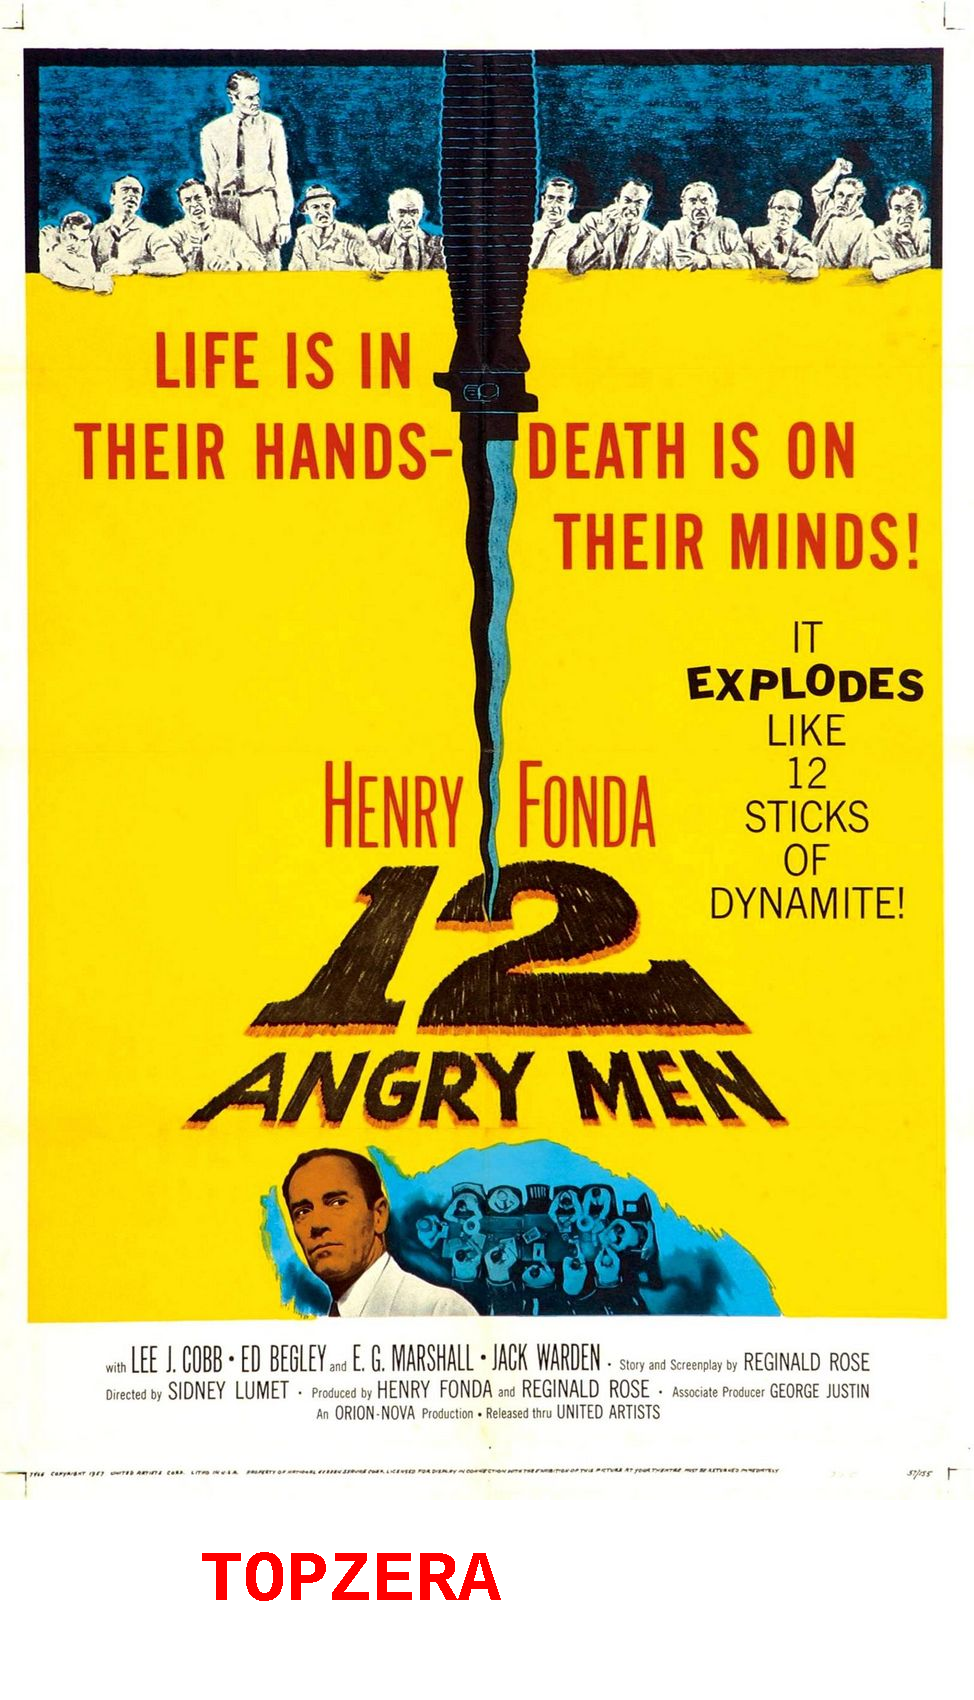
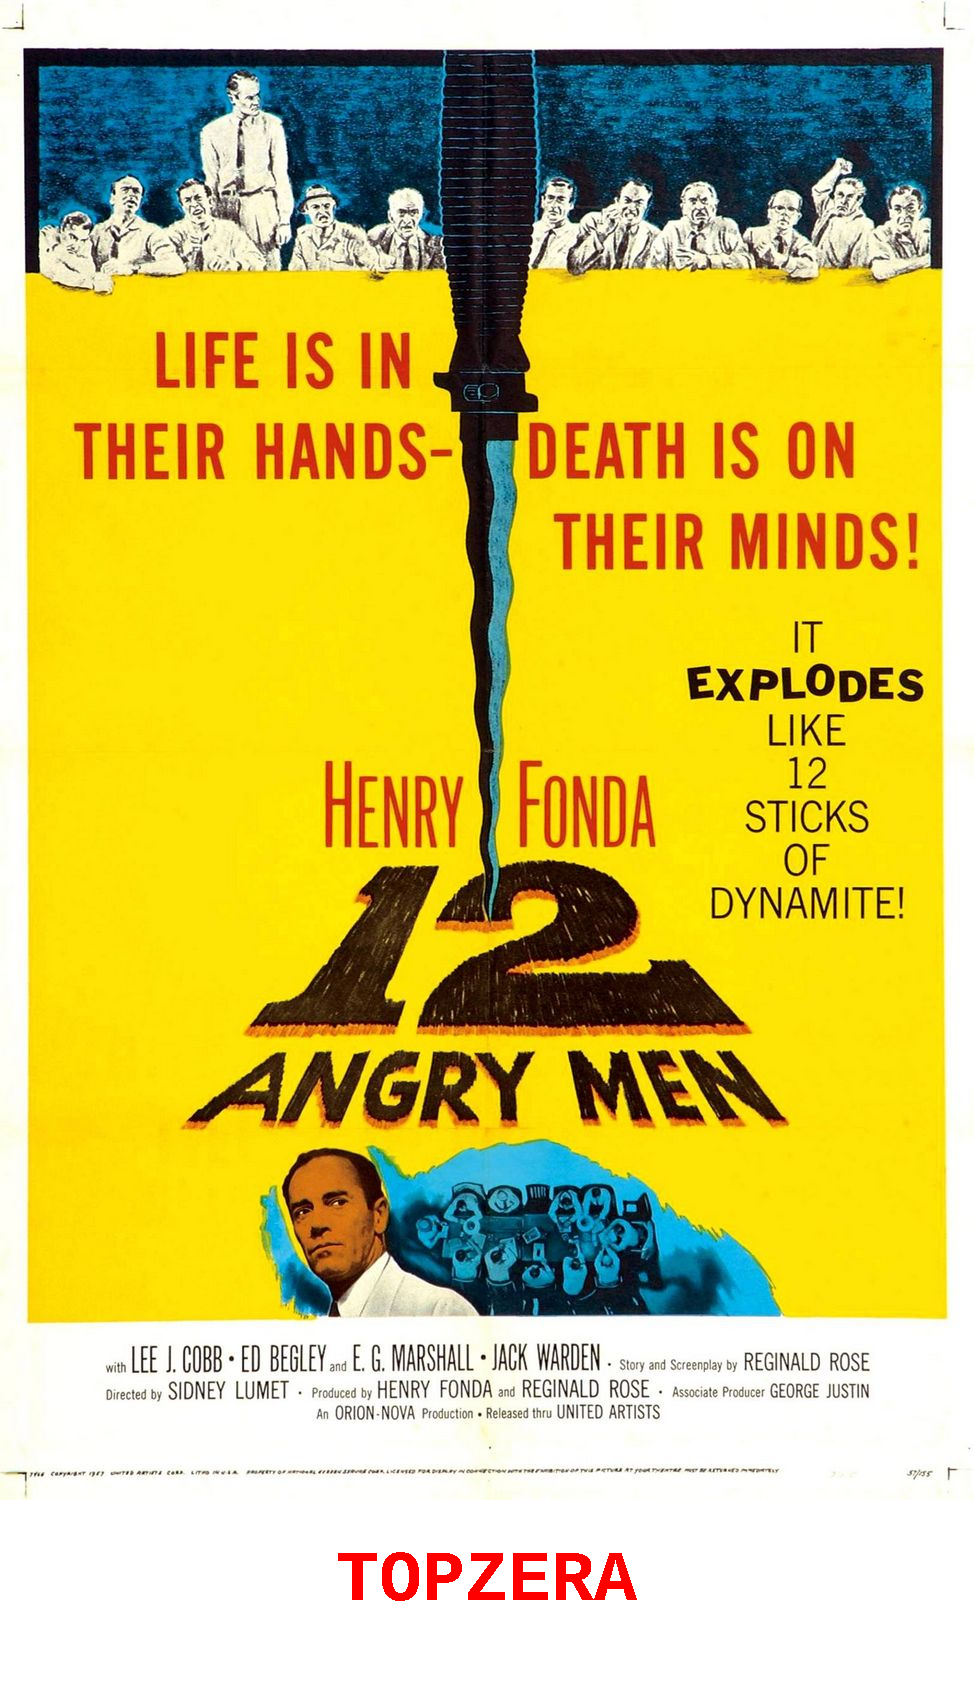
All classes and interfaces needed were implemented

Changed region(s): [[0.2156, 0.9041, 0.6468, 0.9665]]

diff --git a/src/App.java b/src/App.java
@@ -1,16 +1,9 @@
-import java.net.URI;
+
 import java.net.URL;
-import java.net.http.HttpClient;
-import java.net.http.HttpRequest;
-import java.net.http.HttpResponse;
-import java.net.http.HttpResponse.BodyHandlers;
 import java.util.List;
-import java.util.Map;
-import java.lang.Math;
 import java.io.FileInputStream;
 import java.io.InputStream;
 import java.util.Properties;
-import java.util.Scanner;
 
 
 public class App {
@@ -19,69 +12,49 @@ public class App {
 
         
         //Make a HTTP conection and search for the 250 movies
+        
         FileInputStream fis = new FileInputStream("/mnt/c/Users/guial/OneDrive/Documents/Alura-Cursos/Imersao-Java/Alura-Stickers/src/resources/config.properties");
         Properties props = new Properties();
         props.load(fis);
-
+        
         String url = props.getProperty("api");
-        URI address = URI.create(url); //0- Create a URI instance 
-        var client = HttpClient.newHttpClient(); //1- Created the object that will make all process of send requests and retrieve responses
-        var request = HttpRequest.newBuilder(address).GET().build(); //2 - This object make all process  to search the data and build the api
+        ContentExtractor extractorImdb = new ContentExtractorImdb();
+        var http = new ClientHttp();
+        String json = http.searchData(url);
+        
+        List<Content> contents = extractorImdb.contentExtract(json);
 
-        HttpResponse<String> response = client.send(request, BodyHandlers.ofString());
-        //3-bodyhandlers -> class that allow creates differents ways to execute the request
-        //4- response is a variable that returns an anwser of the request in a string format
-        String body = response.body(); //5-The body of my request send
+        var stickerNasa = new StickerGenerater();
+
+        for(int i = 0; i <= 5; i++){
+
+            Content content = contents.get(i);
+
+            InputStream inputStream = new URL(content.getUrlImage()).openStream();
+            String nameFile = content.getTitle() + ".png";
+
+            stickerNasa.create(inputStream, nameFile);
+
+            System.out.println(content.getTitle());
+            System.out.println();
+
+        }
+
+       //5-The body of my request send
 
         //System.out.println(body); 
         
         //Extract only the file that interest (title, post, classification)
         
         
-        var parser = new JsonParser(); //
-        List<Map<String, String>> listOfMovies = parser.parse(body);
+        
         
         //display and manipulate the data
-        String emoji = "\uD83C\uDF1F";
+        //String emoji = "\uD83C\uDF1F";
         
-        for (Map<String, String> movie : listOfMovies) {
-
-            String urlImage = movie.get("image");
-            String title = movie.get("title");
-            InputStream inputStream = new URL(urlImage).openStream();    
-            String nameFile = title + ".png";
-            StickerGenerater stickerGenerater = new StickerGenerater();
-            stickerGenerater.create(inputStream, nameFile);
-
-
-            System.out.println("\u001b[1m \u001b[3m \u001b[33m \u001b[41m" + title + "\u001b[0m");
-            System.out.println();
-            System.out.println("\u001b[1m \u001b[35m \u001b[44m" + movie.get("image") + "\u001b[0m");
-            System.out.println();
-            
-
-            long rating = (Math.round(Double.parseDouble(movie.get("imDbRating"))));
-            int finalRating = (int)rating;
-            System.out.println("\u001b[1m \u001b[37m \u001b[45m Rating:" + emoji.repeat(finalRating) + "\u001b[0m");
-            
-            System.out.println();
-            System.out.println("-------------------------------------------------------------------");
-
-         }System.out.println("Users avaliation");
-         int count = 0;
-         for (Map<String, String> movie : listOfMovies){
-            count ++;
-           
-            Scanner myrating = new Scanner(System.in);
-            System.out.println("\u001b[1m \u001b[3m \u001b[33m \u001b[41m" + movie.get("title") + "\u001b[0m");
-            System.out.println("Movie: " + count + ", How do you classify?");
-    
-            String value = myrating.nextLine(); 
-            long ratingUsers = (Math.round(Double.parseDouble(value)));  
-            int finalRatingUsers = (int)ratingUsers;
-            System.out.println("\u001b[1m \u001b[37m \u001b[45m User Rating:" + emoji.repeat(finalRatingUsers) + "\u001b[0m");
-            
-
-         }
+        
+        }
     }
-}
+
+
+

diff --git a/src/StickerGenerater.java b/src/StickerGenerater.java
@@ -32,8 +32,11 @@ public class StickerGenerater {
         Font font = new Font(Font.SANS_SERIF, Font.BOLD, 72);
         graphics.setColor(Color.RED);
         graphics.setFont(font);
+
+        String text = "TOPZERA";
+        int textWidth = graphics.getFontMetrics().stringWidth(text);
         //4-Write a phrase in each image
-        graphics.drawString("TOPZERA", 200, newHeight - 100);
+        graphics.drawString(text, (width - textWidth) / 2, newHeight - 100);
         //5-Write the new images in a file
         ImageIO.write(newImage, "png", new File("output/"+nameFile));
 
